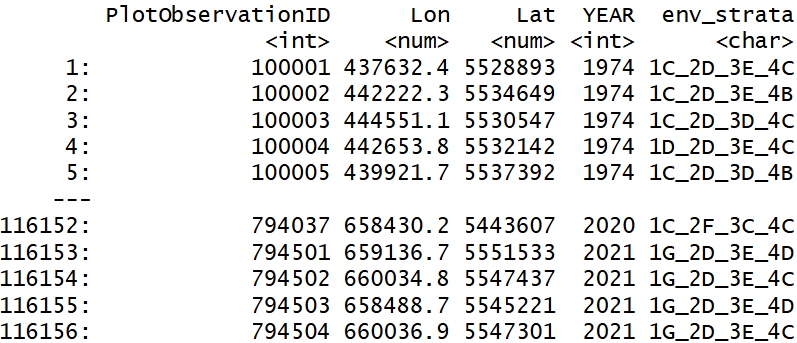
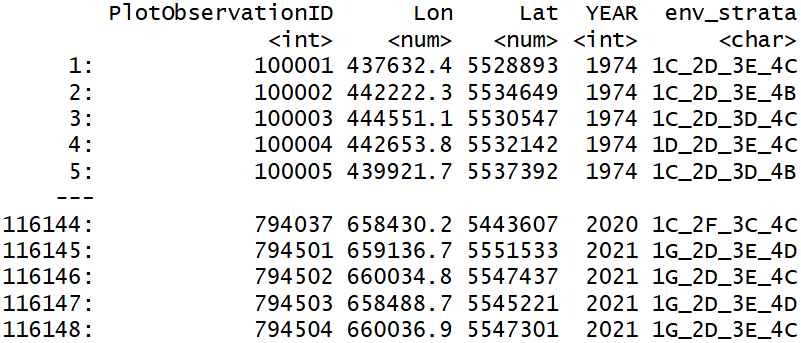
Plots with only genera removed

diff --git a/docs/DataProcessingTutorial/data_stratification.html b/docs/DataProcessingTutorial/data_stratification.html
@@ -288,7 +288,7 @@ pre > code.sourceCode > span > a:first-child::before { text-decoration: underlin
 <section id="introduction" class="level1">
 <h1>Introduction</h1>
 <p>Vegetation-plot records from large databases, including CzechVeg, are usually unevenly distributed in space because some areas, such as nature reserves or other botanically attractive locations, have been sampled more frequently than others. Vegetation plots from these areas also often record the same vegetation type, leading to overrepresentation of this vegetation and its environmental conditions in the dataset. This may be undesirable in analyses that require evenly distributed data. To reduce local oversampling and provide a dataset that is spatially, environmentally, and compositionally more balanced, we have prepared a stratified version of the Czech Vegetation Database: <strong>CzechVeg-Open-Strat</strong>.</p>
-<p>Now, we will go through all the steps of the resampling procedure so that every user of the CzechVeg data can prepare an alternative resampled and stratified dataset according to their own criteria. We will start with the CzechVeg-Open dataset. After removing plots without geographical coordinates and those containing only non-vascular plants, the dataset contains 116,156 vegetation plots as shown below. Yellow areas are those with the highest plot density, which was calculated as the number of plots within the radius of 20 km from each plot.</p>
+<p>Now, we will go through all the steps of the resampling procedure so that every user of the CzechVeg data can prepare an alternative resampled and stratified dataset according to their own criteria. We will start with the CzechVeg-Open dataset. After removing plots without geographical coordinates and those containing only genera or non-vascular plants, the dataset contains 116,148 vegetation plots as shown below. Yellow areas are those with the highest plot density, which was calculated as the number of plots within the radius of 20 km from each plot.</p>
 <p><img src="images/CzechVeg_allPlots.png" class="img-fluid"></p>
 <p>For resampling, we will use the <code>resample</code> function developed specifically for vegetation-plot data. This function uses geographic proximity and species composition similarity of vegetation plots to reduce sampling density in areas where many plots are located close to each other and record compositionally similar vegetation. It is also possible to include environmental (or other) strata to perform the resampling within predefined environmentally similar groups of plots. The function first identifies the most similar pair of plots within the specified distance (and stratum, if used), removes one of them based on a selected rule, and repeats this process until no pairs that violate the specified distance and similarity thresholds remain in the dataset. A detailed technical description of the workflow is available <a href="https://github.com/jdivisek/FilteringReleves">here</a>.</p>
 <p>First, let’s load required libraries.</p>
@@ -375,7 +375,7 @@ pre > code.sourceCode > span > a:first-child::before { text-decoration: underlin
 <span id="cb10-10"><a href="#cb10-10" aria-hidden="true" tabindex="-1"></a>                <span class="at">seed =</span> <span class="dv">1234</span>)</span></code></pre></div><button title="Copy to Clipboard" class="code-copy-button"><i class="bi"></i></button></div>
 </div>
 <p><img src="images/resampling.png" class="img-fluid" width="682"></p>
-<p>On a laptop with 32 GB RAM and an Intel Core i7-11850H 2.5 GHz processor, resampling 116,156 plots took less than 4 minutes. As a result, we obtained a <code>data.table</code> with PlotObservationIDs and coordinates for <strong>61,336 plots</strong> that are either more than 1,000 m apart or less similar than 0.6 within each environmental stratum.</p>
+<p>On a laptop with 32 GB RAM and an Intel Core i7-11850H 2.5 GHz processor, resampling 116,148 plots took less than 3 minutes. As a result, we obtained a <code>data.table</code> with PlotObservationIDs and coordinates for <strong>61,282 plots</strong> that are either more than 1,000 m apart or less similar than 0.6 within each environmental stratum.</p>
 <div class="cell">
 <div class="code-copy-outer-scaffold"><div class="sourceCode cell-code" id="cb11"><pre class="sourceCode r code-with-copy"><code class="sourceCode r"><span id="cb11-1"><a href="#cb11-1" aria-hidden="true" tabindex="-1"></a>res</span></code></pre></div><button title="Copy to Clipboard" class="code-copy-button"><i class="bi"></i></button></div>
 </div>
